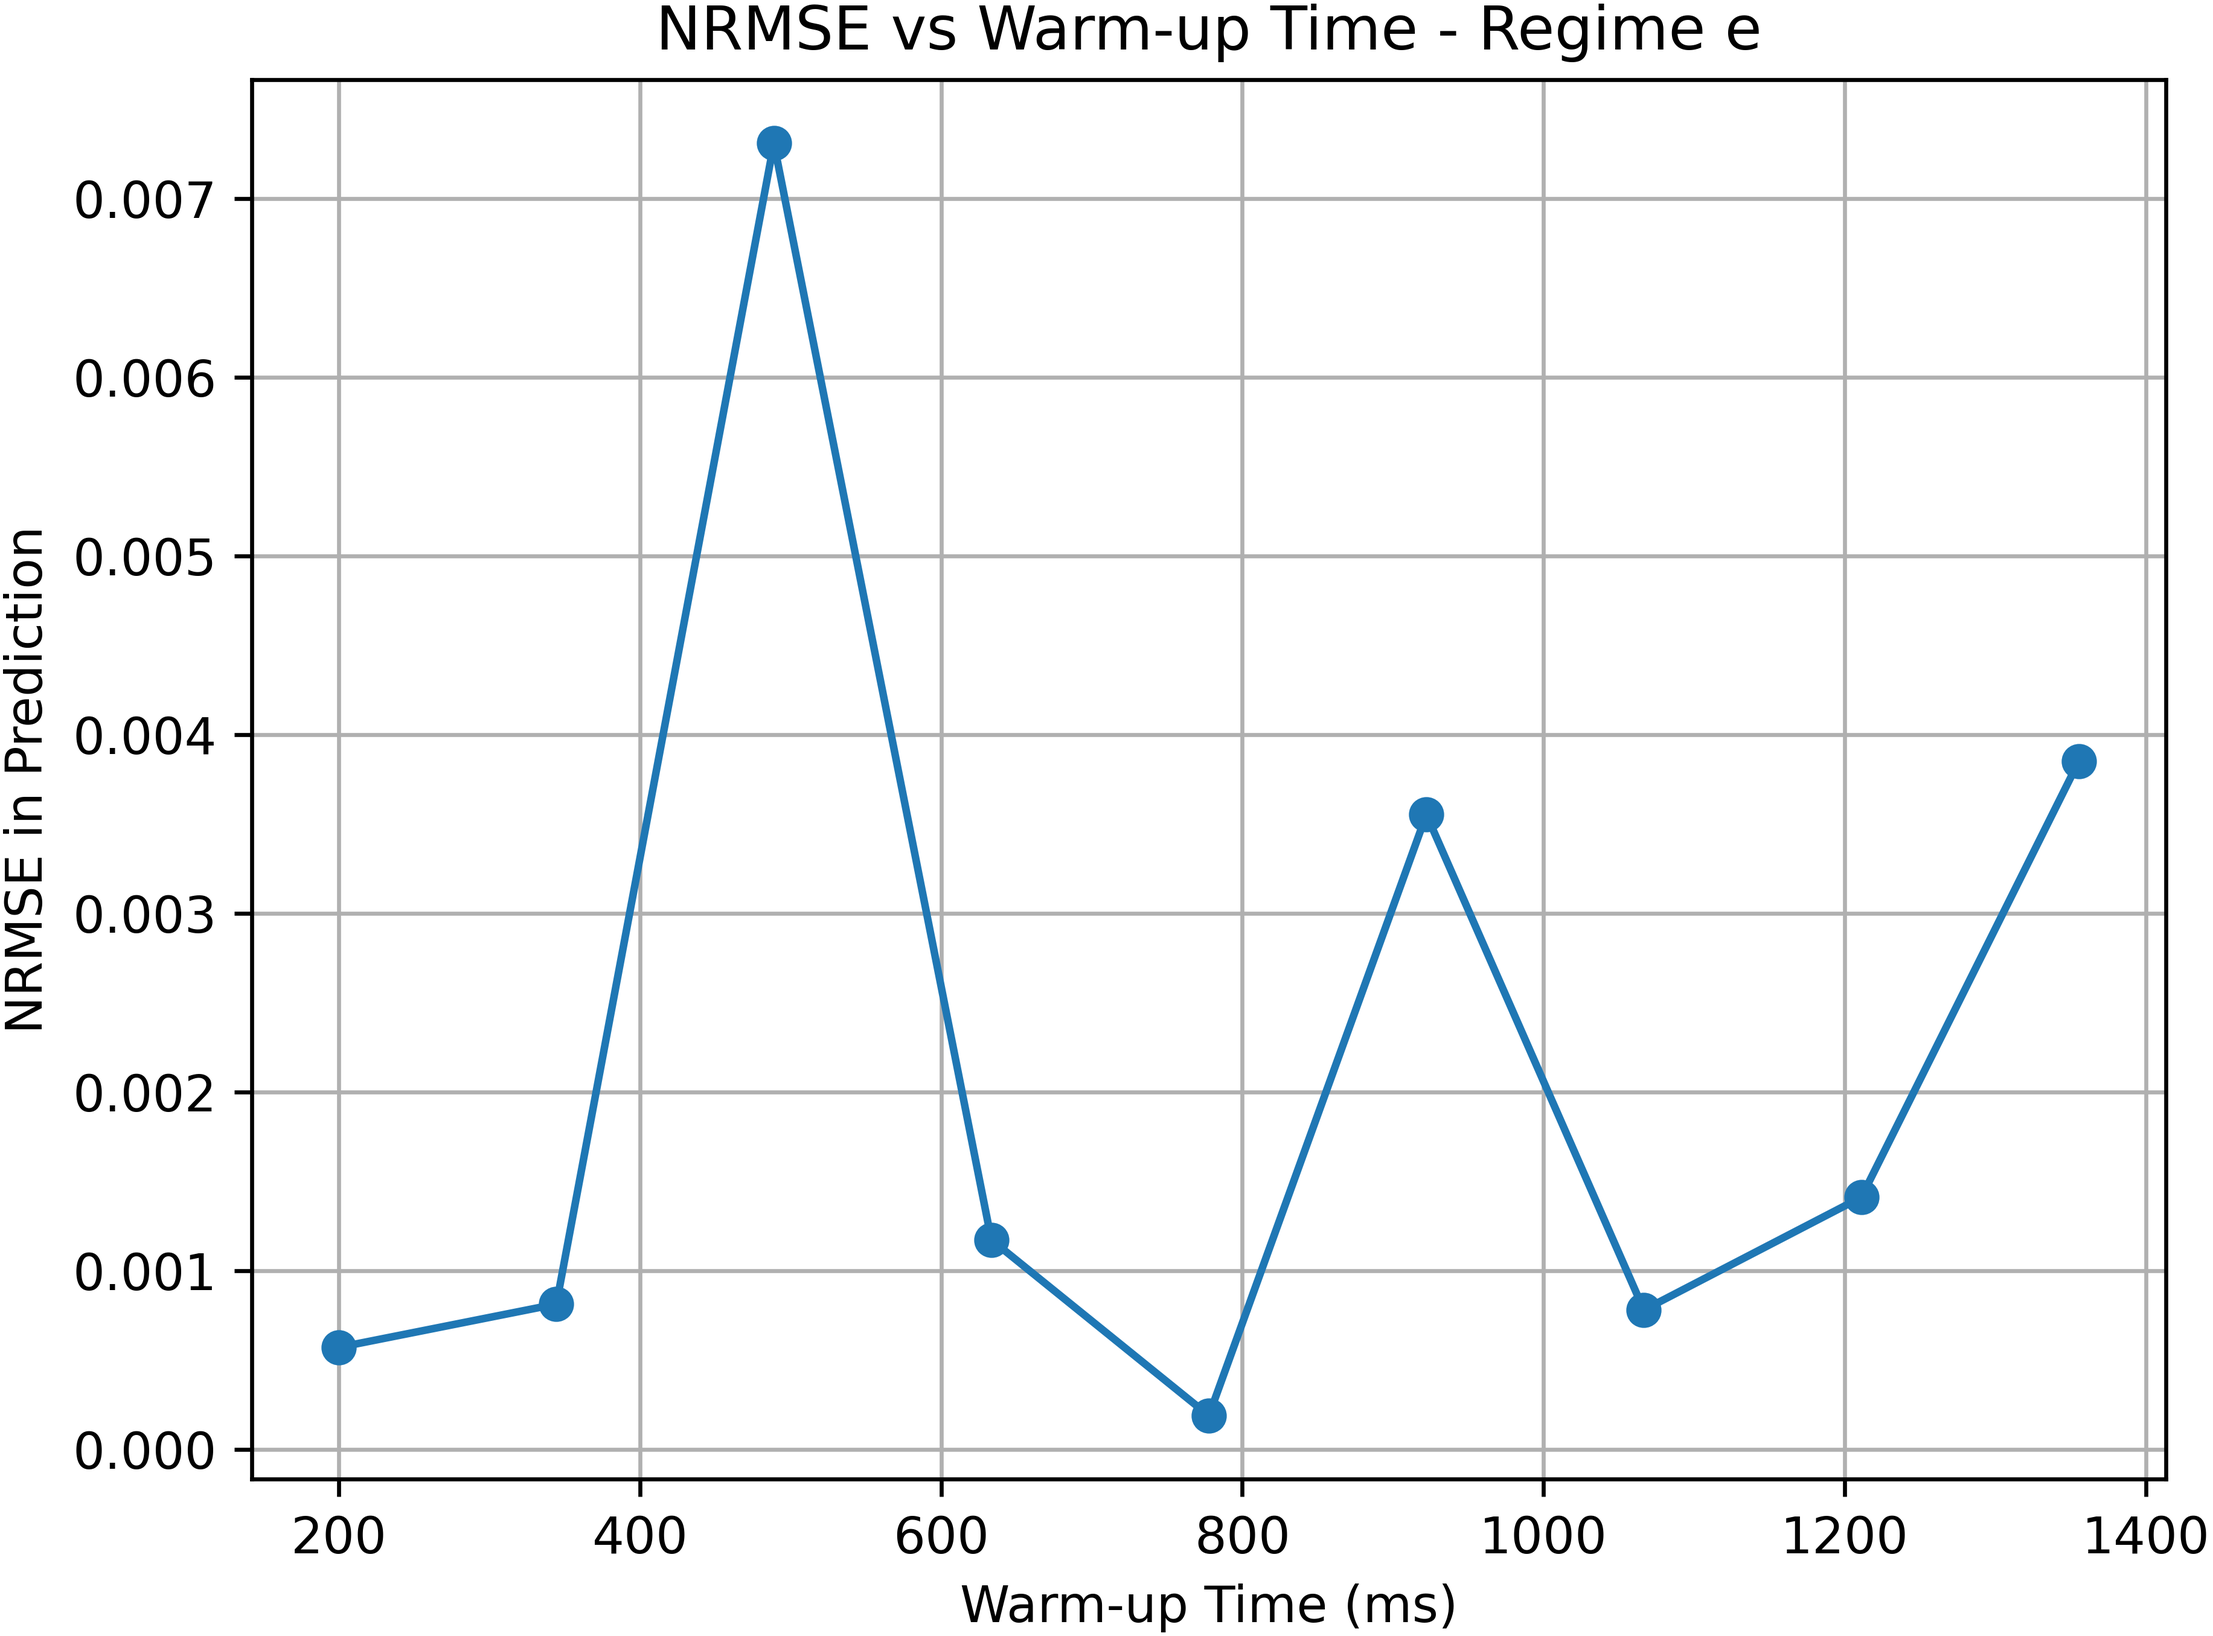
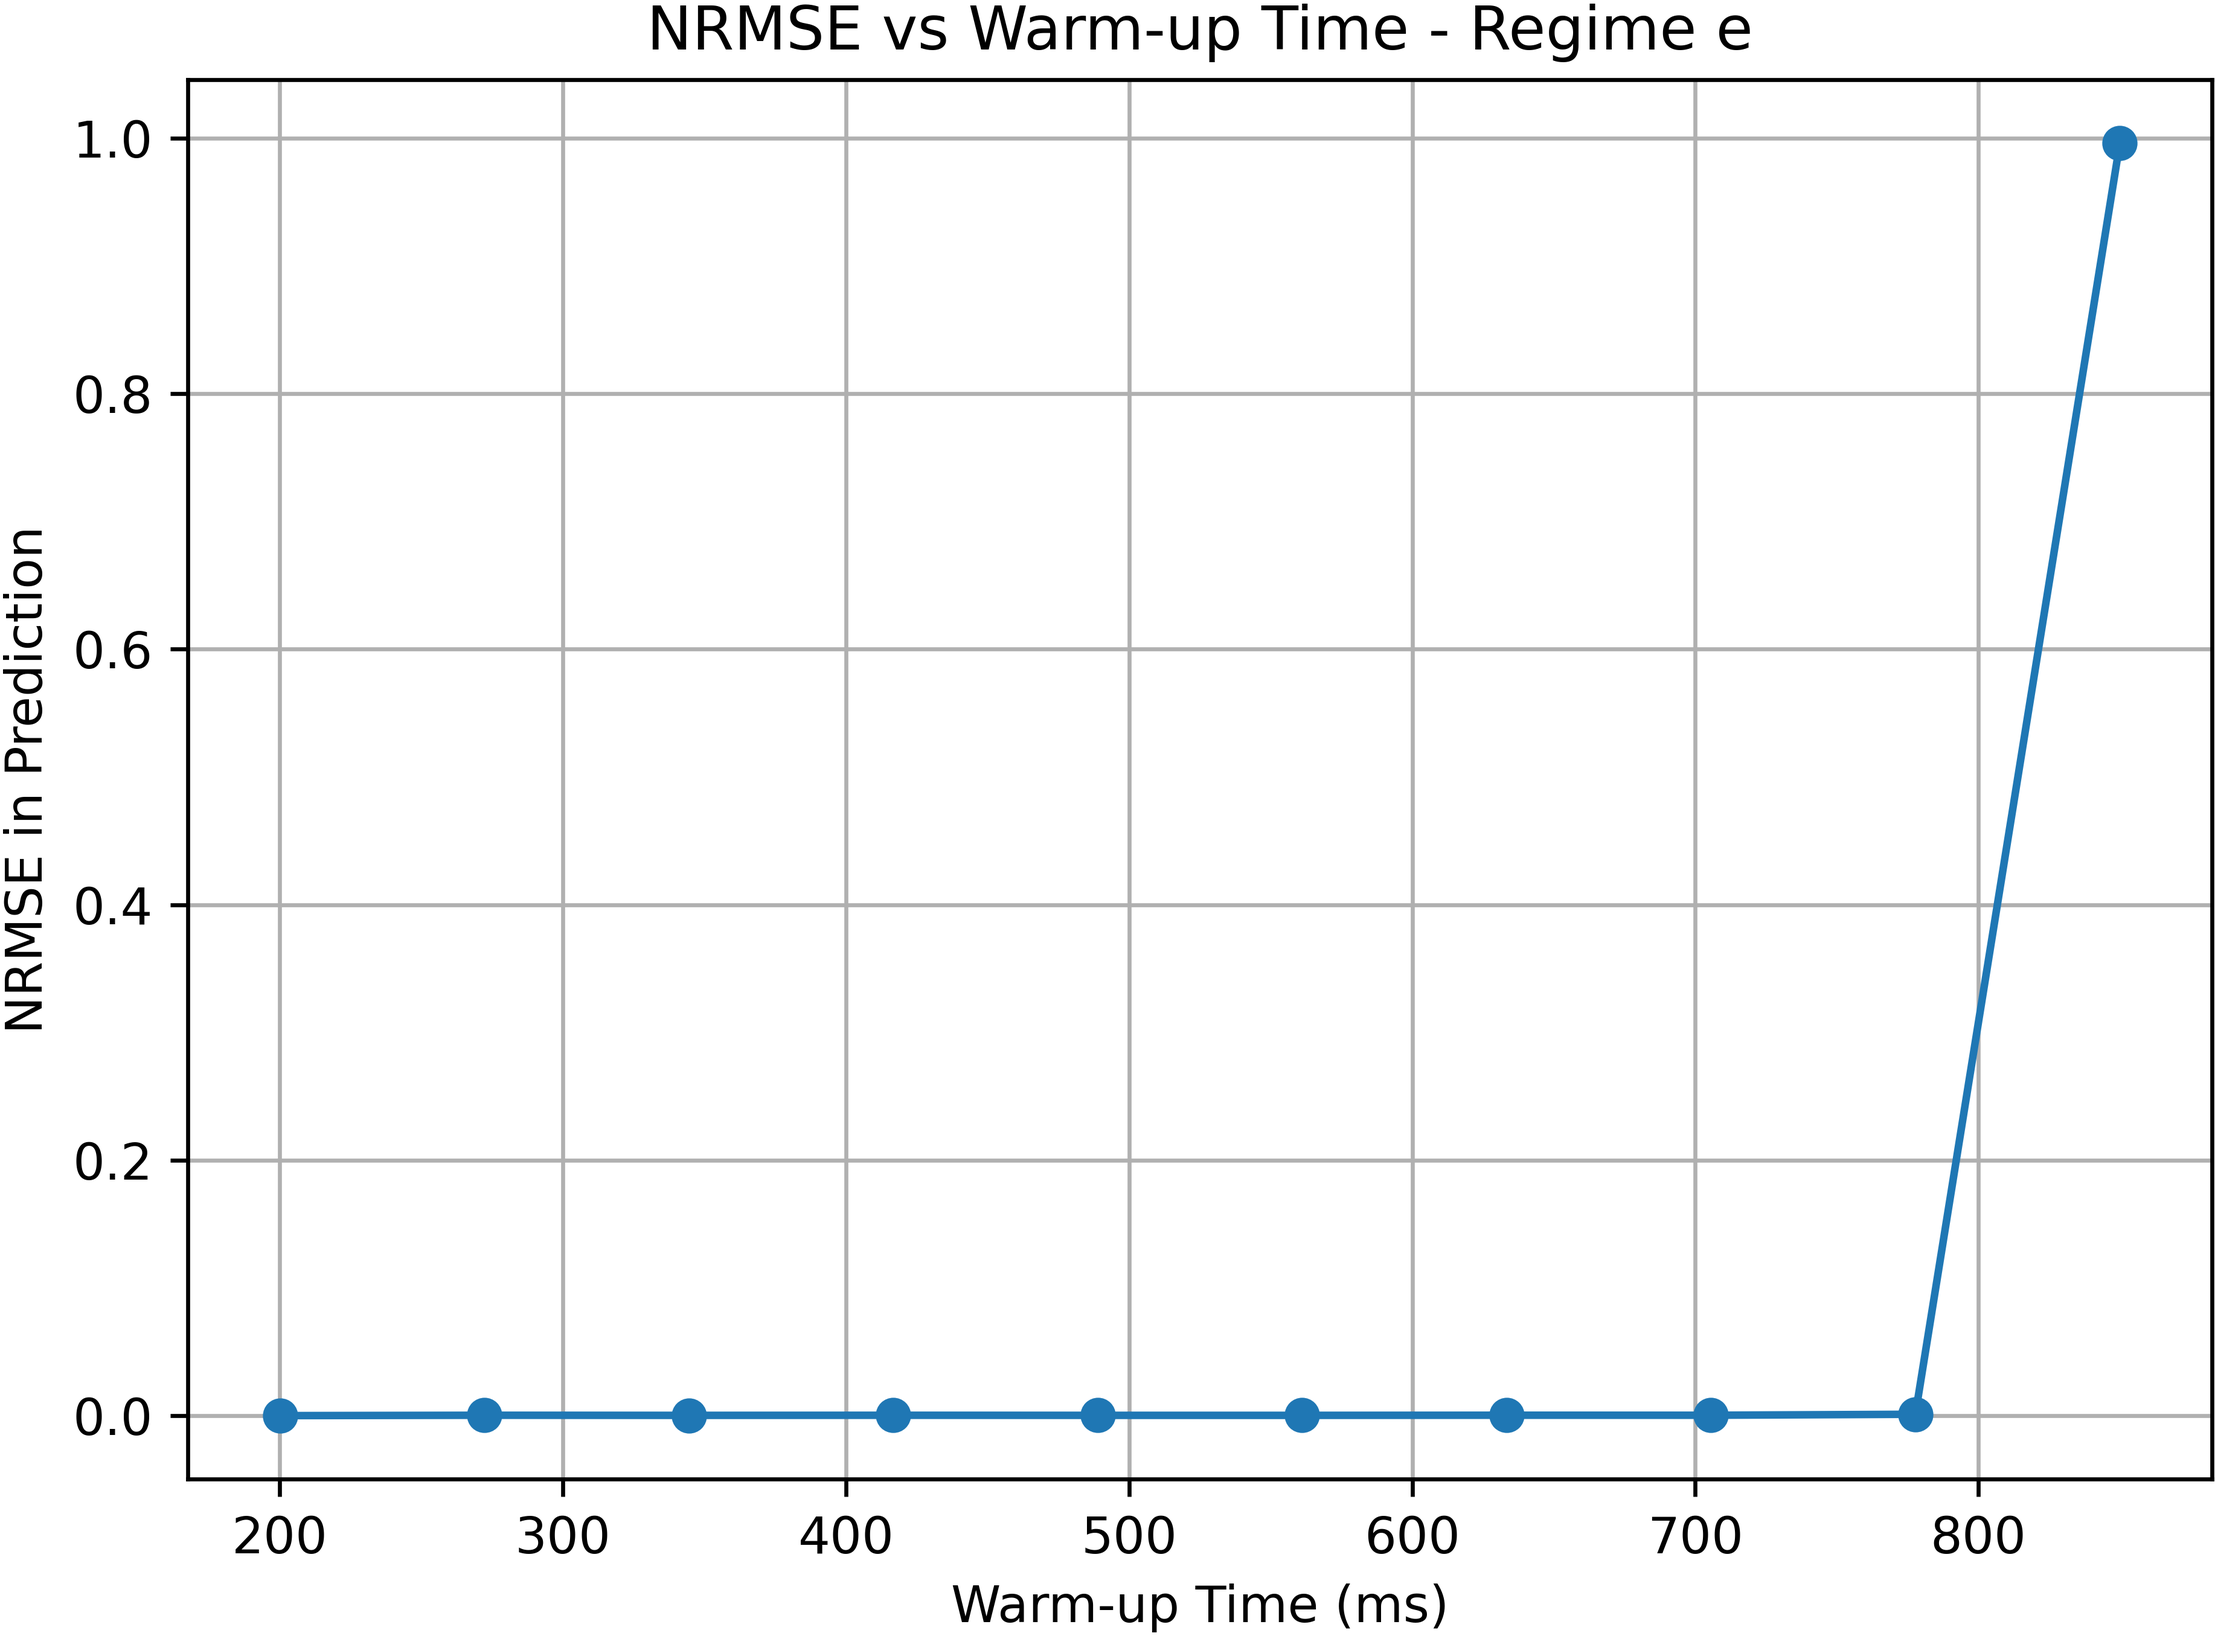
B2 update

diff --git a/B2/Prob-B-2.py b/B2/Prob-B-2.py
@@ -1,12 +1,9 @@
 import numpy as np
 import matplotlib.pyplot as plt
-from ESN import ESNNumpy
+from ESN_new import ESN
 import pickle
 from tqdm import tqdm
-import networkx as nx
-from sklearn.linear_model import Ridge
 from sklearn.preprocessing import StandardScaler
-from sklearn.metrics import mean_squared_error
 
 
 seed = 42
@@ -14,67 +11,6 @@ np.random.seed(seed)
 train_fraction = 0.5
 dt = 0.005
 Tt = 40000
-
-
-class EchoStateNetwork:
-    def __init__(self, Nres, p, alpha, rho):
-        self.Nres = Nres
-        self.alpha = alpha
-        self.rho = rho
-        self.p = p
-        self.Win = np.random.uniform(-0.5, 0.5, (Nres, 1))
-        graph = nx.erdos_renyi_graph(Nres, p, directed=True)
-        Wres = nx.to_numpy_array(graph)
-        eigenvalues = np.linalg.eigvals(Wres)
-        spectral_radius = np.max(np.abs(eigenvalues))
-        self.Wres = (Wres / spectral_radius) * rho
-        self.r = np.zeros((Nres, 1))
-        self.Wout = None
-        self.ridge = Ridge(alpha=1e-6, fit_intercept=False)
-    
-    def update_reservoir(self, u):
-        self.r = (1.0 - self.alpha) * self.r + self.alpha * np.tanh(
-            self.Wres @ self.r + self.Win * u
-        )
-        return self.r
-    
-    def calculate_nrmse(self, y_true, y_pred):
-        mse = mean_squared_error(y_true, y_pred)
-        rmse = np.sqrt(mse)
-        nrmse = rmse / np.std(y_true)
-        return nrmse
-    
-    def train(self, u, y, warmup=40000):
-        states = []
-        
-        for ut in u:
-            r = self.update_reservoir(ut)
-            states.append(r.flatten())
-        
-        states = np.array(states)
-        
-        states = states[warmup:]
-        y = y[warmup:]
-        
-        self.ridge.fit(states, y)
-        self.Wout = self.ridge.coef_
-    
-    def predict(self, u, y=None):
-        self.r = np.zeros((self.Nres, 1))
-        
-        predictions = []
-        for ut in u:
-            r = self.update_reservoir(ut)
-            y_pred = self.Wout @ r
-            predictions.append(y_pred.flatten())
-        
-        predictions = np.array(predictions)
-        
-        nrmse = None
-        if y is not None:
-            nrmse = self.calculate_nrmse(y, predictions)
-            
-        return predictions, nrmse
 
 
 def load_data():
@@ -93,37 +29,39 @@ def main():
     all_data = load_data()
     #optimized_params = load_params()
     
+    optimized_params = {
+        "a" : { 'Nres':760, 'p':0.2, 'alpha':0.7, 'rho':0.9 },
+        "b" : { 'Nres':920, 'p':0.2, 'alpha':0.9, 'rho':0.75 }, 
+        "c" : { 'Nres':450, 'p':0.2, 'alpha':0.7, 'rho':1.05 },
+        "e" : { 'Nres':300, 'p':0.2, 'alpha':0.5, 'rho':1.05 } 
+    }
+    
     warmup_times = {}
     
     for label in tqdm(['a', 'b', 'c', 'e'], desc="Subtasks"):
-        data = np.asarray(all_data[label]['x']).flatten()
+        params = optimized_params[label]
         
-        warmup_points = np.linspace(40001, 300000, 10, dtype=int)
+        data = np.asarray(all_data[label]['x']).flatten()
+        data = data[Tt:]
+        
+        N_train = int(train_fraction * len(data))
+        
+        warmup_points = np.linspace(1, N_train - 2, 10, dtype=int)
         
         nrmse_pred_list = []
         for Nwarmup in tqdm(warmup_points, desc="Warmup points"):
-            esn = EchoStateNetwork(Nres=875, p=0.8, alpha=0.5, rho=0.9)
+            esn = ESN(Nres=params['Nres'], p=params['p'], alpha=params['alpha'], rho=params['rho'])
             
             scaler = StandardScaler()
             data_normalized = scaler.fit_transform(data.reshape(-1, 1)).flatten()
             
-            N_train = int(train_fraction * (len(data) - Nwarmup)) + Nwarmup
-            
             inputs = data_normalized[:-1]
             targets = data_normalized[1:]
-            if N_train >= len(inputs):
-                # not enough data left for prediction; mark as nan and continue
-                nrmse_pred_list.append(np.nan)
-                continue
             
             u_train = inputs[:N_train]
             y_train = targets[:N_train]
             u_predict = inputs[N_train:]
             y_predict = targets[N_train:]
-            
-            if len(u_train) <= Nwarmup:
-                nrmse_pred_list.append(np.nan)
-                continue
             
             esn.train(u_train, y_train, warmup=Nwarmup)
             predictions_normalized, _ = esn.predict(u_predict)
@@ -139,18 +77,14 @@ def main():
         
         T1_idx = int(np.argmax(nrmse_pred_list))
         T1 = warmup_points[T1_idx]
-        if T1_idx < len(nrmse_pred_list) - 1:
-            relative_T2_idx = int(np.argmin(nrmse_pred_list[T1_idx + 1:]))
-            T2_idx = T1_idx + 1 + relative_T2_idx
-            T2 = warmup_points[T2_idx]
-        else:
-            T2 = 200000
+        T2_idx = int(np.argmin(nrmse_pred_list))
+        T2 = warmup_points[T2_idx]
         
         warmup_times[label] = {"T1": T1, "T2": T2}
         
         # Plot NRMSE prediction vs warm-up time
         plt.figure()
-        plt.plot(warmup_points * dt, nrmse_pred_list, marker='o')
+        plt.plot((warmup_points + Tt) * dt, nrmse_pred_list, marker='o')
         plt.xlabel('Warm-up Time (ms)')
         plt.ylabel('NRMSE in Prediction')
         plt.title(f'NRMSE vs Warm-up Time - Regime {label}')
